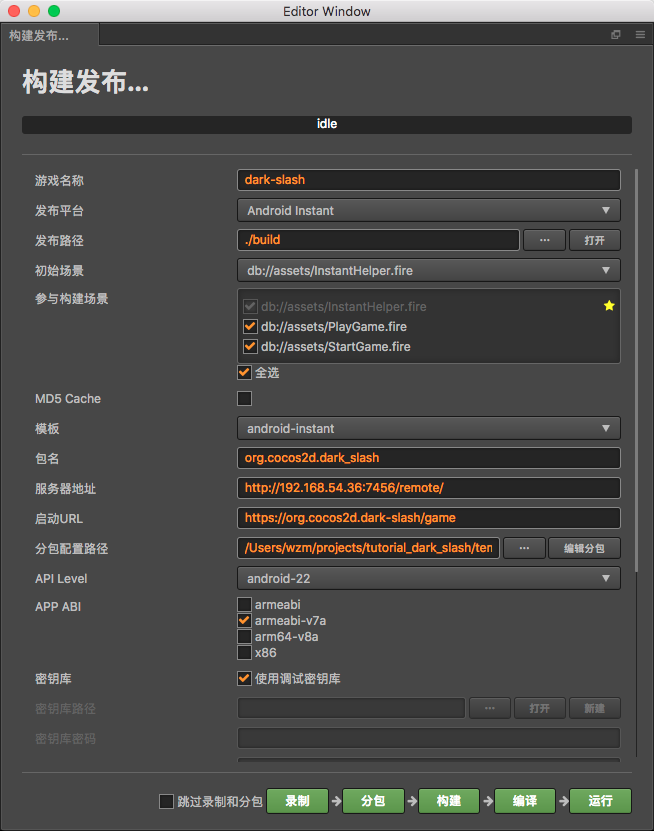
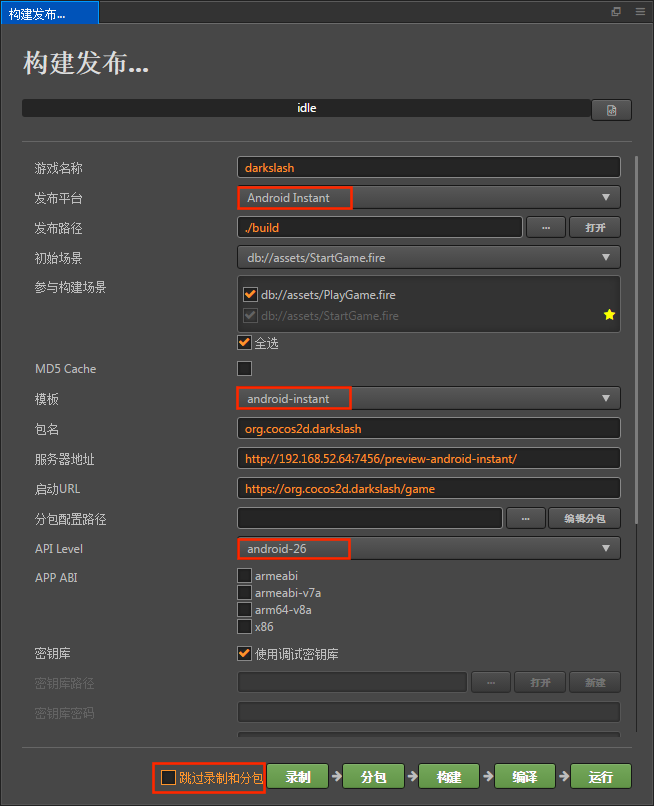
完善发布到 Google Instant Games

diff --git a/en/publish/publish-android-instant.md b/en/publish/publish-android-instant.md
@@ -1,37 +1,51 @@
-# Publish Android Instant Games
+# Publish to Google Instant Games
 
-## Requirement 
- - Android Studio 3.0+
+Starting with Cocos Creator v2.0.4, creating games for the Google Instant Games platform is officially supported. Google Instant Games relies on Google play's services to open small programs in a way similar to opening web page URL.
 
- - Android Phone 6.0+
+Technically, Google Instant Games is a game micro-end scenario. It's based on the Android Instant App, but there are some differences:
 
- - NDK r10c +
+- Both the first package and the APK add-on are limited to 10MB (instead of 4MB)
+- Dynamically load resources without binary code from third-party CDN (JS is also available)
+- APK add-on packages can only be downloaded from the Google Play Store, can contain binary code and resources, can be loaded in the background, do not need to switch activity
 
-   
+With games developed by Cocos Creator, just choose Google Instant Games as the publishing platform, which can automatically complete the standard adaptation work. Developers can quickly publish games that meet the Google Instant Games technical standards
 
-## Instant Games Publish Process
+## Using Cocos Creator publish to Google Instant Games with one click
 
- 1. Start CocosCreator. 
+### Requirement
 
- 2. Open **Projec** --> **Build panel** , select **Android Instant** platform , and **android-instant** template.
+- Android Studio 3.0+
+- Android Phone 6.0+
+**Attention**: Devices with Android SDK version between 6.0 and 7.0 need to install Google Service Framework. And Android 8.0 or higher does not need.
+- NDK r10c +
 
- 3. If you don't need to refactor or want to experience the publish process , You can hook the **Skip Record & Refactor **box , then click **Build** , **Compile **, connect android phone to the computer and then click **Play** button, when process complete you can run instant app on the phone.
+### Instant Games Publish Process
 
-    ![](./publish-android-instant/open-refactor.png)
+1. Using Cocos Creator open the project that needs to be published. Open the **Build** panel from the Menu bar. Select **Android Instant** in the **platform** of the **Build** panel, choose **android-instant** in the **template**, and the **API Level** selects **android-26** and above.
 
-    4. If you need  **refactor** , you can click **Record** button and simulator will be opened. The simulatior will automatically record the resources used . What we need to do is to play the game according to our game flow and let the simulator record resources information.
+    ![](publish-android-instant/builder.png)
 
-       ![](./publish-android-instant/record.png)
+2. If you want to package directly without using the refactor feature, you can hook the **Skip Record & Refactor** box, then click **Build -> Compile**, connect android phone to the computer and then click the **Play** button, when process complete you can run Google Instant Games on the phone.<br>
+If you compile for the first time, you need to open the post-built project with Android Studio to download **Google Play Instant Development SDK (windows platform)** Support package, Mac platform is the **Instant Apps Development SDK** support package. If the download fails, it is recommended to set up an HTTP proxy for Android Studio.
 
-    5. After the recording is completed, click on the **Refactor**, the Refactor panel will be opened. In this panel, we can complete the refactor operation.(please see the following introduction  **Refactor** for more detail)
+    ![](publish-android-instant/studio_setting.png)
 
-    6. After we do the **Refactor**, we need to select the path of our record in the **record config path**, click the **...** button and select the record we just create.(the records path is in `path_to_your_project/temp/android-instant-games/profiles`, and we delete the record we don't need by deleting the record folder)
+3. If you need **refactor**, you can click the **Record** button in the **build** panel, and simulator will be opened. The simulatior will automatically record the resources used. What we need to do is to play the game according to the game flow and let the simulator record resources information.
 
-       ![](publish-android-instant/refactor_record.png)
+    ![](./publish-android-instant/record.png)
 
-    7. Like step 3, Click **Build**, **Compile**, **Play** button, and make sure the phone is on the same LAN as the PC, you can test the game running on the Instant App (More about Build config description please see the following introduction **Android Instant Build Panel**)
+4. After the recording is completed, click **Refactor**, and the Refactor panel will be opened to complete the refactor operation. For specific refactor steps, please refer to [Refactor](../publish/publish-android-instant.md#%E5%88%86%E5%8C%85%E5%99%A8).
 
-       
+5. After the refactor is complete, select the **Record config path -> ...** in the **Build** panel. This step will open the **profiles** folder to select the path where the refactor record is located (Refactor records are saved in the `path_to_your_project/temp/android-instant-games/profiles` directory). We can delete unwanted refactor records by deleting the corresponding folder.
+
+    ![](publish-android-instant/refactor_record.png)
+
+6. Clicking **Build** in the **Build** panel will use the refactor record to split the first package. Then click **Compile -> Play** and make sure the phone is on the same LAN as the PC, and you can test the Google Instant Games running.
+
+**Attention**：The main configuration notes for Google Instant Games in the **build** panel are as follows:
+- **Server Address**: The download address of the remote resource, can be a CDN address. Put the `build/android-instant/remote_res` folder into the server or CDN, Cocos Creator will go to this address to download the resources that are not in the first package.
+- **Default URL**: Android will load your instant app by this URL. See [Google Instant App documentation](https://developer.android.com/topic/google-play-instant/getting-started/first-instant-app) for details.
+- **Record config path**: Cocos Creator will use this record config to generate first package and remote_res folder.
 
 ## Refactor
 
@@ -39,61 +53,58 @@ The **Refactor** is used to edit the first package of the game and select the re
 
 ![](publish-android-instant/refactor_desc.png)
 
-### How to use
+### Useage
 
 1. When you finish the Record, Click **Refactor** to open Refactor panel.
 
 2. The **Refactor** opens the latest record by default. If you need to open another record, you can click **+ Open record**. The **Refactor** can also open multiple records at the same time for comparison.
 
+    ![](publish-android-instant/refactor_multiple.png)
+
 3. Drag the **end point**, you can choose to divide the resources into the first package. When you drag the end point, you can find the data of the file list and the total size and other data changes. Select the size of the first package suitable for the game and we can finish the first step of the record.
 
-4. **Refactor** also can cancel resource manual, on the page of the file list, expand the nodes of each category, and we can see the size of each file, we can remove the resource by uncheck the resource item.
+4. **Refactor** can adjust all resources, on the page of the file list, expand the nodes of each category, and we can see the size of each file, we can remove the resource by uncheck the resource item.
 
-   ![](publish-android-instant/refactor_select.png)
+    ![](publish-android-instant/refactor_select.png)
 
-5. If some resources are not in the first package, but we want to put it in the first package, we can click the **+Manual** button to open **Manual** panel, the rest of the resources will be presented here. Check the resources you need to put into the first package and click the **Save** button, you will find it add to the Refactor panel.
+5. If some resources are not in the first package, but we want to put it in the first package, we can click the **+ Manual** button to open the **Manual** panel, the rest of the resources will be presented here. Check the resources that you need to put into the first package and tick the resource, then click the **Add** button, you will find that it has been added to the **Refactor** panel.
 
-   ![](publish-android-instant/refactor_manual.png)
+    ![](publish-android-instant/refactor_manual.png)
 
-6. We can also drag resources from **Assets** panel  into **Refactor** panel to add another resources into first package.
+6.  If you need to add other resources to the first package, you can also select resources from the **Assets** panel and drag them into the **Refactor** panel.
 
 7. Finally, click **Save** button to save the first package info into record.
 
-8. In the **Record config path** option of the **Build...** panel,select the record we just edited, and then click the **Build** button, creator will use this record to generate the first package and other resources.
+8. In the **Record config path** option of the **Build** panel, select the record we just edited, and then click the **Build** button, Cococs Creator will use this record to generate the first package and other resources.
 
-## Android Instant Build Panel
+## Android Studio support
 
-### Several major configurations description
+- Cocos Creator recommends compiling with Android Studio.
+- For other modifications to the Android project, we can use Android Studio to open the project directly and integrate other code for Android project. (The project path: `path_to_your_project/build/android-instant/frameworks/runtime-src/proj.android-studio`)
+- The SDK version can be modified in Android Studio. The modified path and the minimum supported version are as follows:
 
-- **Server Address**: CocosCreator will use this address to download resources that are not in the first package. we can put remote_res (remote_res path:`build/android-instant/remote_res`) on our servers or CDN.
-
-- **Default URL**: Android will load your instant app by this URL.(for more information: <a href="https://developer.android.com/topic/google-play-instant/getting-started/first-instant-app">Android Instant App Docs</a>)
-
-- **Record Config Path**: CocosCreator will use this record config to generate first package and remote_res folder.
-
-  
+![](publish-android-instant/sdk_version.png)
 
 ## Instant Cookie API
 
-We have provided some APIs to make it easier for developers to call some of Google's API directly, we now support Google Cookie API.(CocosCreator Cookie API Demo: <a href="https://github.com/wuzhiming/AndroidInstantCookieDemo">**AndroidInstantCookieDemo**</a>)
+We have provided some APIs to make it easier for developers to call some of Google's API directly. At the same time, we also provide Cocos Creator Cookie API Demo: [AndroidInstantCookieDemo](https://github.com/wuzhiming/AndroidInstantCookieDemo)
 
-- cc.androidInstant.showInstallPrompt()   For more information, please visit：<a href="https://developers.google.com/android/reference/com/google/android/gms/instantapps/InstantApps.html#showInstallPrompt(android.app.Activity,%20android.content.Intent,%20int,%20java.lang.String)t">showInstallPrompt</a>
+- `cc.androidInstant.showInstallPrompt()` For details, please refer to [showInstallPrompt](https://developers.google.com/android/reference/com/google/android/gms/instantapps/InstantApps.html#showInstallPrompt(android.app.Activity,%20android.content.Intent,%20int,%20java.lang.String)
 
-- cc.androidInstant.isInstantApp()   For more information, please visit：<a href="https://developers.google.com/android/reference/com/google/android/gms/instantapps/PackageManagerCompat#isInstantApp()">isInstantApp</a>
+- `cc.androidInstant.isInstantApp()` For details, please refer to [isInstantApp](https://developers.google.com/android/reference/com/google/android/gms/instantapps/PackageManagerCompat#isInstantApp())
 
-- cc.androidInstant.getInstantAppCookie()   For more information, please visit：<a href="https://developers.google.com/android/reference/com/google/android/gms/instantapps/PackageManagerCompat#getInstantAppCookie()">getInstantAppCookie</a>
+- `cc.androidInstant.getInstantAppCookie()` For details, please refer to [getInstantAppCookie](https://developers.google.com/android/reference/com/google/android/gms/instantapps/PackageManagerCompat#getInstantAppCookie())
 
-- cc.androidInstant.setInstantAppCookie()   For more information, please visit：<a href="https://developers.google.com/android/reference/com/google/android/gms/instantapps/PackageManagerCompat#setInstantAppCookie(byte%5B%5D)">setInstantAppCookie</a>
+- `cc.androidInstant.setInstantAppCookie()` For details, please refer to [setInstantAppCookie](https://developers.google.com/android/reference/com/google/android/gms/instantapps/PackageManagerCompat#setInstantAppCookie(byte%5B%5D))
 
-- cc.androidInstant.getInstantAppCookieMaxSize()    For more information, please visit：<a href="https://developers.google.com/android/reference/com/google/android/gms/instantapps/PackageManagerCompat#getInstantAppCookieMaxSize()">getInstantAppCookieMaxSize</a>
+- `cc.androidInstant.getInstantAppCookieMaxSize()` For details, please refer to [getInstantAppCookieMaxSize](https://developers.google.com/android/reference/com/google/android/gms/instantapps/PackageManagerCompat#getInstantAppCookieMaxSize())
 
-  
+## Related reference links
 
+1. [Instant App](https://developer.android.com/topic/google-play-instant/getting-started/first-instant-app)
 
-## Knowledge links
+2. [Google InstantApps API](https://developers.google.com/android/reference/com/google/android/gms/instantapps/InstantApps)
 
-1. <a href="https://developer.android.com/topic/google-play-instant/getting-started/first-instant-app">Instant App</a>
-2. <a href="https://developers.google.com/android/reference/com/google/android/gms/instantapps/InstantApps">Google InstantApps API</a>
-3. <a href="https://github.com/googlesamples/android-instant-apps">Google Instant App Samples</a>
-4. <a href="https://github.com/wuzhiming/AndroidInstantCookieDemo">CocosCreator AndroidInstantCookieDemo</a>
+3. [Google Instant App Samples](https://github.com/googlesamples/android-instant-apps)
 
+4. [CocosCreator AndroidInstantCookieDemo](https://github.com/wuzhiming/AndroidInstantCookieDemo)

diff --git a/zh/publish/publish-android-instant.md b/zh/publish/publish-android-instant.md
@@ -1,109 +1,106 @@
+# 发布到 Google Instant Games
 
+从 v2.0.4 版本开始，Cocos Creator 正式支持将游戏发布到 Google Instant Games 平台。Google Instant Games 依赖于 Google play 的服务，实现类似于打开网页 URL 的方式来打开小程序。从技术上来说，Google Instant Games 是一种游戏微端方案。它基于 Android Instant App，但又有一些不同：
 
-# 发布 Android Instant 游戏
+- 首包和 APK 附加包都限制在 10MB 以内（而不是 4MB）
+- 可以从第三方 CDN 动态加载不含二进制代码的资源（JS 也可以）
+- APK 附加包只能从 Google Play Store 下载，可以包含二进制代码和资源，可以后台加载，不需要切换 activity。
 
-## 需要的环境
+采用 Cocos Creator 开发的游戏，只需选择 Google Instant Games 作为发布平台，就可以自动完成标准适配工作，输出符合 Google Instant Games 技术标准的游戏。
 
-- Android Studio 3.0+
+## 使用 Cocos Creator 一键发布到 Google Instant Games
 
-- Android Phone 6.0+
+### 环境配置
 
-- NDK r10c +
+- 需要使用 Android Studio 3.0 版本及以上
+- Android Phone 6.0 及以上<br>
+**注意**：Android SDK 版本在 6.0 到 7.0 之间的设备需要安装 Google 服务框架，SDK 版本在 8.0 以上的则不需要，可直接安装使用。
+- NDK r10c 版本及以上
   
+### 发布流程
 
-## Instant Games 发布步骤
+1. 使用 Cocos Creator 打开需要发布的项目工程，在 **构建发布** 面板的 **发布平台** 中选择 **Android Instant**，**模板** 选择 **android-instant**，**API Level** 选择 **android-26** 及以上。
 
-1. 打开 CocosCreator
+    ![](publish-android-instant/builder.png)
 
-2. 打开 **项目** -> **构建发布**，**发布平台**选择 **Android Instant** ，**模板**选择 **android-instant**
+2. 如果希望直接打包而不使用分包功能的话，可以勾选 **跳过录制和分包**，然后直接点击 **构建 -> 编译 -> 运行**，连接手机之后即可看到 Google Instant Games 的运行效果。<br>
+首次编译的话需要用 Android Studio 打开构建后的工程以下载 **Google Play Instant Development SDK（windows 平台）** 支持包（Mac 平台为 Instant Apps Development SDK 支持包）。如果下载不成功的话建议设置一下 Android Studio 的 HTTP 代理。
 
-3. 如果不需要进行分包或者想体验下打包流程，可以勾选**跳过录制和分包**，然后直接进行**构建**、**编译** ，连上手机之后，点击**运行**，即可看到 Instant App 的运行效果
+    ![](publish-android-instant/studio_setting.png)
 
-   ![](publish-android-instant/builder.png)
+3. 如果需要进行分包操作就在 **构建发布** 面板点击 **录制**，该操作将会打开模拟器。然后进行游戏，模拟器会根据游戏流程自动记录游戏过程中使用到的资源信息。
 
-4. 如果需要进行分包操作，那么请点击**录制**，这个时候模拟器将会打开，模拟将会自动记录使用到的资源，我们要做的是根据我们的游戏流程进行游戏，让模拟器记录资源使用的信息
+    ![](publish-android-instant/record.png)
 
-   ![](publish-android-instant/record.png)
+4. 录制完成后，点击 **分包**，该操作将会打开分包界面来完成分包操作。具体的分包步骤请查看 [分包器](../publish/publish-android-instant.md#%E5%88%86%E5%8C%85%E5%99%A8) 部分的内容。
 
-5. 录制完成后，点击**分包**，将会打开分包界面，在这个界面，我们可以完成分包操作，完成后我们进行**保存**（这里我们不展开说明，请看后面的 **分包器介绍** ）
+5. 分包完成后，在 **构建发布** 面板中选择 **分包配置路径 -> ...**，该步骤会打开 **profiles** 文件夹来选择分包记录所在的路径（分包记录保存在 `path_to_your_project/temp/android-instant-games/profiles` 目录下）。用户可以通过删除对应的文件夹来删除不需要的分包记录。
 
-6. 分包完成后，我们需要在**构建发布**面板里面的**分包配置路径**属性选择我们的刚刚分包的路径，点击**...**选择我们刚刚分包的记录（分包记录保存在  `path_to_your_project/temp/android-instant-games/profiles` 我们可以删除自己不需要的分包记录，只需要删除对应文件夹即可）
+    ![](publish-android-instant/refactor_record.png)
 
-   ![](publish-android-instant/refactor_record.png)
+6. 在 **构建发布** 面板中点击 **构建**，就会使用该分包记录进行首包的分割。然后点击 **编译 -> 运行** 并确保手机跟 PC 在同一个局域网内，就可以测试游戏运行的情况了。
 
-7. 同步骤3，点击**构建** 、**编译** 、**运行**，并确保手机跟pc在同一个局域网内，就可以测试游戏在Instant App运行的情况（构建发布面板的Android Instant配置的说明，请看后面的 **Android Instant 构建面板**）
-
-   
+**注意**：**构建发布** 面板中关于 Google Instant Games 的几个主要的配置说明如下：
+- **服务器地址**：远端资源的下载地址，可以是 CDN 地址，将 `build/android-instant/remote_res` 文件夹放入服务器或者 CDN 中即可，Creator 会去这个地址下载没有在首包当中的资源
+- **启动 URL**：Google Instant Games 会根据这个协议启动对应的应用和对应的 activity。详情请查看 [Google Instant App 文档](https://developer.android.com/topic/google-play-instant/getting-started/first-instant-app)。
+- **分包配置路径**：Creator 会根据这个分包配置生成首包的资源
 
 ## 分包器
 
-分包器，主要用来为游戏进行首包的编辑，选择放入首包的资源
+分包器，主要用来编辑游戏的首包，选择放入首包的资源。
 
 ![](publish-android-instant/refactor_desc.png)
 
 ### 使用方法
 
-1. 当录制完成后，选择**分包**就会打开分包界面，如上图所示
+1. 当录制完成后，选择 **分包** 就会打开分包界面，如上图所示
 
-2. 分包器默认打开的是最新的录制记录，如果需要打开别的记录，可以使用**+打开记录**，打开别的记录。分包器也可以同时打开多个记录，进行对比
+2. 分包器默认打开的是最新的录制记录。也可以通过 **+ 打开记录** 来打开之前的记录进行对比。切换不同的录制记录，下方资源的文件数量和资源大小等数据也会随着变化。
 
-3. 拖动 **终止点**，可以选择分入首包的资源，当拖动终止点的时候，可以发现文件列表的文件数量和总大小等数据的变化，选择合适游戏的首包大小，即可粗略的分好首包的资源
+    ![](publish-android-instant/refactor_multiple.png)
 
-4. 分包器可以对所有资源进行调整，在文件列表的页面，展开各个分类的节点，可以看到对应各个文件的大小，取消**操作**的打钩就可以手动**取消**某个资源放入首包当中
+3. 拖动录制记录中的 **终止点**，可以选择分入首包的资源。当拖动终止点时，下方文件列表的文件数量和总大小等数据也会随着变化。选择合适游戏的首包大小，即可粗略的分好首包资源。
 
-   ![](publish-android-instant/refactor_select.png)
+4. 分包器可以对所有资源进行调整。在文件列表的页面，展开各个分类的节点，可以看到对应各个文件的大小，取消 **操作** 的打钩就可以手动 **取消** 某个资源放入首包当中
 
-5. 如果有些资源没有在首包之中，但是我们又希望将其放入首包中，可以从 **+手动添加**里面添加入首包之中，只需要找到对应资源并在资源后面打上勾，并点击**添加**即可
+    ![](publish-android-instant/refactor_select.png)
 
-   ![](publish-android-instant/refactor_manual.png)
+5. 如果想要把终止点之后的资源放入首包中，可以点击左下角的 **+ 手动添加** 选择资源添加。只需要找到对应资源并在资源后面打上勾，然后点击 **添加** 即可
 
-6. 如果还有额外的资源需要加入首包，那么，也可以从**资源管理器**面板选择资源，并拖拽进入**分包器**面板即可
+    ![](publish-android-instant/refactor_manual.png)
 
-7. 分包完成之后，点击**保存**
+6. 如果还有额外的资源需要加入首包，那么也可以从 **资源管理器** 面板选择资源，并拖拽进入 **分包器** 面板即可
 
-8. 在**构建发布**面板的**分包配置**选项，选择刚刚编辑的分包记录，点击**构建**，就会使用该分包记录进行首包的分割
-
-
-
-## Android Instant 构建面板
-
-### 几个主要的配置
-
-- **服务器地址**：远端资源的下载地址，可以是cdn地址，将`build/android-instant/remote_res`文件夹放入服务器或者CDN中即可，Creator 会去这个地址下载没有在首包当中的资源
-- **启动URL**：Android Instant App 会根据这个这个协议启动对应的应用和对应的activity，详情请看 <a href="https://developer.android.com/topic/google-play-instant/getting-started/first-instant-app">Google Instant App 文档</a>
-- **分包配置路径**：Creator 会根据这个分包配置生成首包的资源
-
-
+7. 分包完成之后，点击 **保存**。
 
 ## Android Studio 支持
 
-- 对 Android 工程的其他修改，我们可以使用 Android Studio 直接打开工程，对 android 工程进行其他代码的集成（工程路径：`path_to_your_project/build/android-instant/frameworks/runtime-src/proj.android-studio`）
-- Creator 也推荐使用 Android Studio 进行编译
+- Cocos Creator 推荐使用 Android Studio 进行编译
+- 对 Android 工程的其他修改，我们可以使用 Android Studio 直接打开工程，对 Android 工程进行其他代码的集成（工程路径：`path_to_your_project/build/android-instant/frameworks/runtime-src/proj.android-studio`）
+- 在 Android Studio 中可以对 SDK 版本进行修改，修改路径及最低支持版本如下：
 
-
+![](publish-android-instant/sdk_version.png)
 
 ## Instant Cookie API
 
-我们提供了一些 API 方便开发者直接调用 Google 的一些功能，目前我们开放了 Instant Google Cookie API , 详情请前往谷歌文档查看，同时，我们提供了这些 API 的 demo ：<a href="https://github.com/wuzhiming/AndroidInstantCookieDemo">**AndroidInstantCookieDemo**</a>
+我们提供了一些 API 方便开发者直接调用 Google 的一些功能，目前开放了 Instant Google Cookie API，详情请前往谷歌文档查看。同时，我们也提供了 API 相关的 demo：[AndroidInstantCookieDemo](https://github.com/wuzhiming/AndroidInstantCookieDemo)
 
-- cc.androidInstant.showInstallPrompt()  请前往 Google 查看详细文档：<a href="https://developers.google.com/android/reference/com/google/android/gms/instantapps/InstantApps.html#showInstallPrompt(android.app.Activity,%20android.content.Intent,%20int,%20java.lang.String)t">showInstallPrompt</a>
+- `cc.androidInstant.showInstallPrompt()` 请参考 Google 相关文档 [showInstallPrompt](https://developers.google.com/android/reference/com/google/android/gms/instantapps/InstantApps.html#showInstallPrompt(android.app.Activity,%20android.content.Intent,%20int,%20java.lang.String))
 
-- cc.androidInstant.isInstantApp()   请前往 Google 查看详细文档：<a href="https://developers.google.com/android/reference/com/google/android/gms/instantapps/PackageManagerCompat#isInstantApp()">isInstantApp</a>
+- `cc.androidInstant.isInstantApp()` 请参考 Google 相关文档 [isInstantApp](https://developers.google.com/android/reference/com/google/android/gms/instantapps/PackageManagerCompat#isInstantApp())
 
-- cc.androidInstant.getInstantAppCookie()   请前往 Google 查看详细文档：<a href="https://developers.google.com/android/reference/com/google/android/gms/instantapps/PackageManagerCompat#getInstantAppCookie()">getInstantAppCookie</a>
+- `cc.androidInstant.getInstantAppCookie()` 请参考 Google 相关文档 [getInstantAppCookie](https://developers.google.com/android/reference/com/google/android/gms/instantapps/PackageManagerCompat#getInstantAppCookie())
 
-- cc.androidInstant.setInstantAppCookie()   请前往 Google 查看详细文档：<a href="https://developers.google.com/android/reference/com/google/android/gms/instantapps/PackageManagerCompat#setInstantAppCookie(byte%5B%5D)">setInstantAppCookie</a>
+- `cc.androidInstant.setInstantAppCookie()` 请参考 Google 相关文档 [setInstantAppCookie](https://developers.google.com/android/reference/com/google/android/gms/instantapps/PackageManagerCompat#setInstantAppCookie(byte%5B%5D))
 
-- cc.androidInstant.getInstantAppCookieMaxSize()   请前往 Google 查看详细文档：<a href="https://developers.google.com/android/reference/com/google/android/gms/instantapps/PackageManagerCompat#getInstantAppCookieMaxSize()">getInstantAppCookieMaxSize</a>
+- `cc.androidInstant.getInstantAppCookieMaxSize()` 请参考 Google 相关文档 [getInstantAppCookieMaxSize](https://developers.google.com/android/reference/com/google/android/gms/instantapps/PackageManagerCompat#getInstantAppCookieMaxSize())
 
-  
+## 相关参考链接
 
-## 相关知识链接
+- [Instant App](https://developer.android.com/topic/google-play-instant/getting-started/first-instant-app)
 
-1. <a href="https://developer.android.com/topic/google-play-instant/getting-started/first-instant-app">Instant App</a>
-2. <a href="https://developers.google.com/android/reference/com/google/android/gms/instantapps/InstantApps">Google InstantApps API</a>
-3. <a href="https://github.com/googlesamples/android-instant-apps">Google Instant App Samples</a>
-4. <a href="https://github.com/wuzhiming/AndroidInstantCookieDemo">CocosCreator AndroidInstantCookieDemo </a>
+- [Google InstantApps API](https://developers.google.com/android/reference/com/google/android/gms/instantapps/InstantApps)
 
+- [Google Instant App Samples](https://github.com/googlesamples/android-instant-apps)
 
-
+- [CocosCreator AndroidInstantCookieDemo](https://github.com/wuzhiming/AndroidInstantCookieDemo)

diff --git a/zh/SUMMARY.md b/zh/SUMMARY.md
@@ -89,6 +89,7 @@
         - [微信小游戏开放数据域](publish/publish-wechatgame-sub-domain.md)
     - [发布到 QQ「玩一玩」平台](publish/publish-qqplay.md)
     - [发布到 Facebook Instant Games 平台](publish/publish-fb-instant-games.md)
+    - [发布到 Google Instant Games 平台](publish/publish-android-instant.md)
     - [定制项目构建流程](publish/custom-project-build-template.md)
 	- [命令行发布项目](publish/publish-in-command-line.md)
 

diff --git a/en/SUMMARY.md b/en/SUMMARY.md
@@ -88,6 +88,7 @@
         - [Wechat Open Data Context](publish/publish-wechatgame-sub-domain.md)
     - [Publish to QQ Play](publish/publish-qqplay.md)
     - [Publish to Facebook Instant Games](publish/publish-fb-instant-games.md)
+    - [Publish to Google Instant Games](publish/publish-android-instant.md)
     - [Customize Project Build Process](publish/custom-project-build-template.md)
     - [Publish with Command Line](publish/publish-in-command-line.md)
 

diff --git a/zh/publish/index.md b/zh/publish/index.md
@@ -8,6 +8,7 @@
     - [微信小游戏开放数据域](publish-wechatgame-sub-domain.md)
 - [发布到 QQ「玩一玩」平台](publish-qqplay.md)
 - [发布到 Facebook Instant Games 平台](publish-fb-instant-games.md)
+- [发布到 Google Instant Games 平台](publish-android-instant.md)
 - [命令行发布项目](publish-in-command-line.md)
 - [定制项目构建模板](custom-project-build-template.md)
 

diff --git a/en/publish/index.md b/en/publish/index.md
@@ -8,6 +8,7 @@
     - [Wechat Open Data Context](publish-wechatgame-sub-domain.md)
 - [Publish to QQ Play](publish-qqplay.md)
 - [Publish to Facebook Instant Games](publish-fb-instant-games.md)
+- [Publish to Google Instant Games](publish-android-instant.md)
 - [Publish in command line.md](publish-in-command-line.md)
 - [Custom Project Build Template](custom-project-build-template.md)
 
